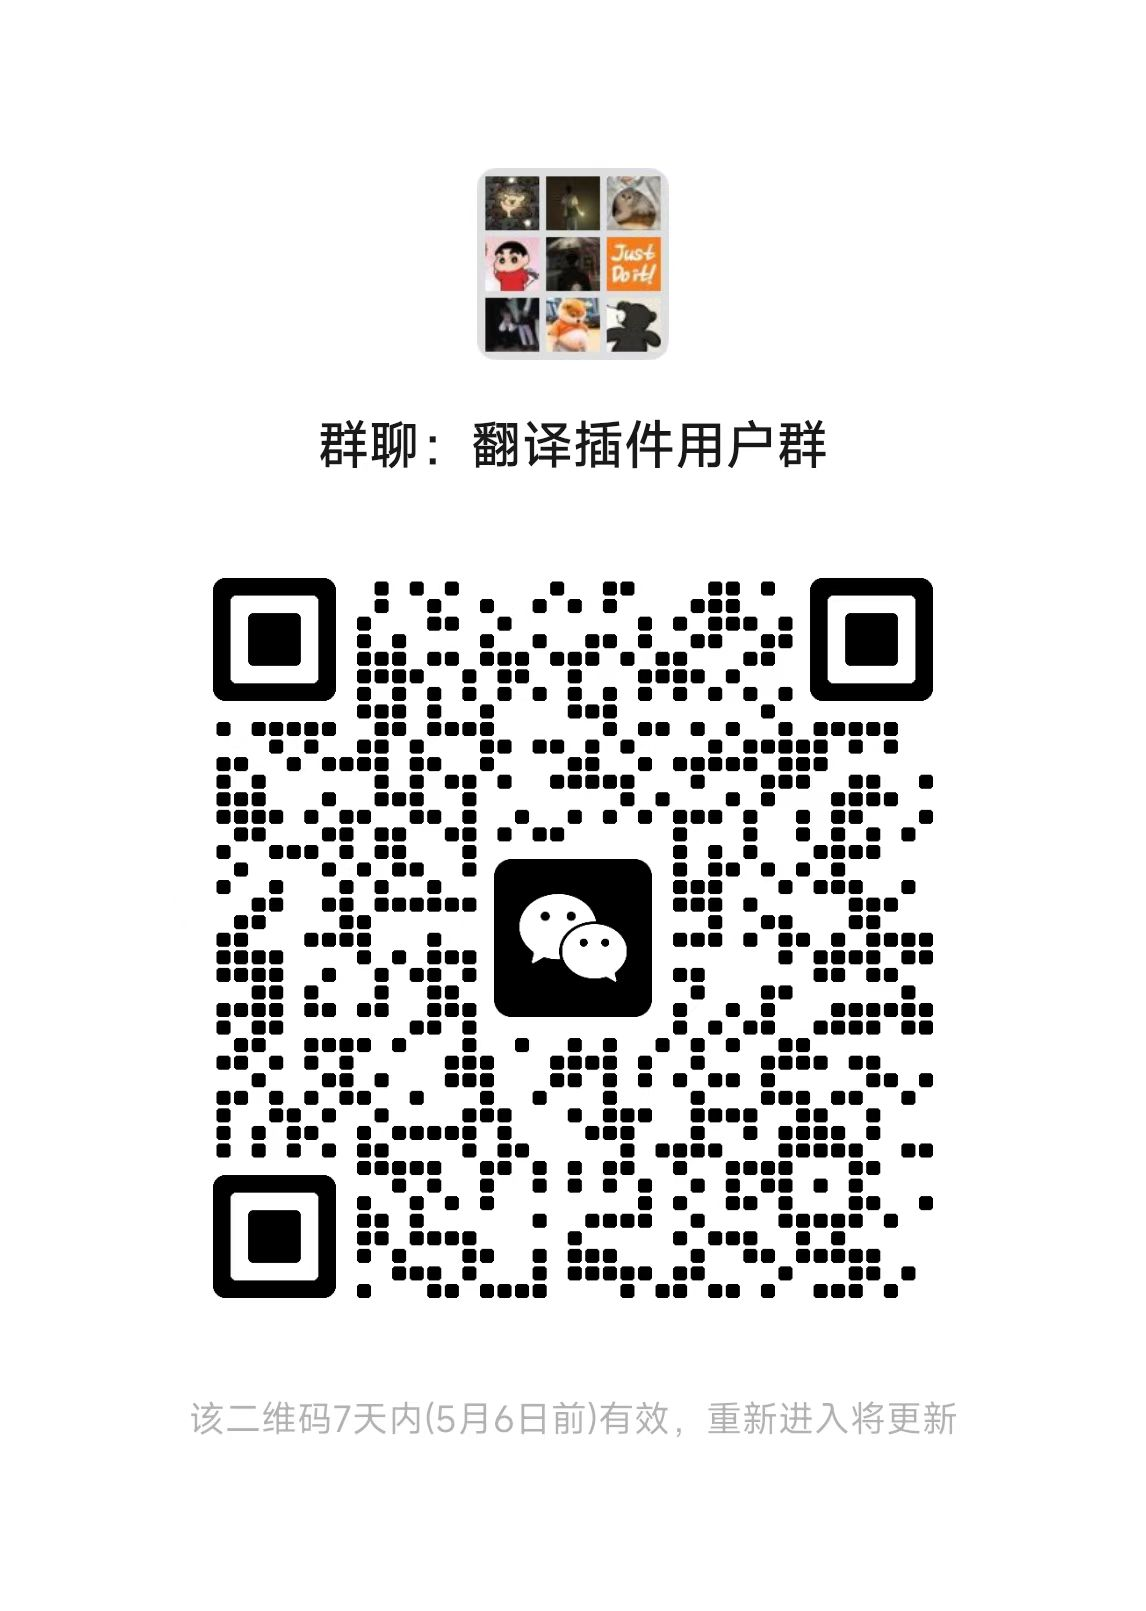
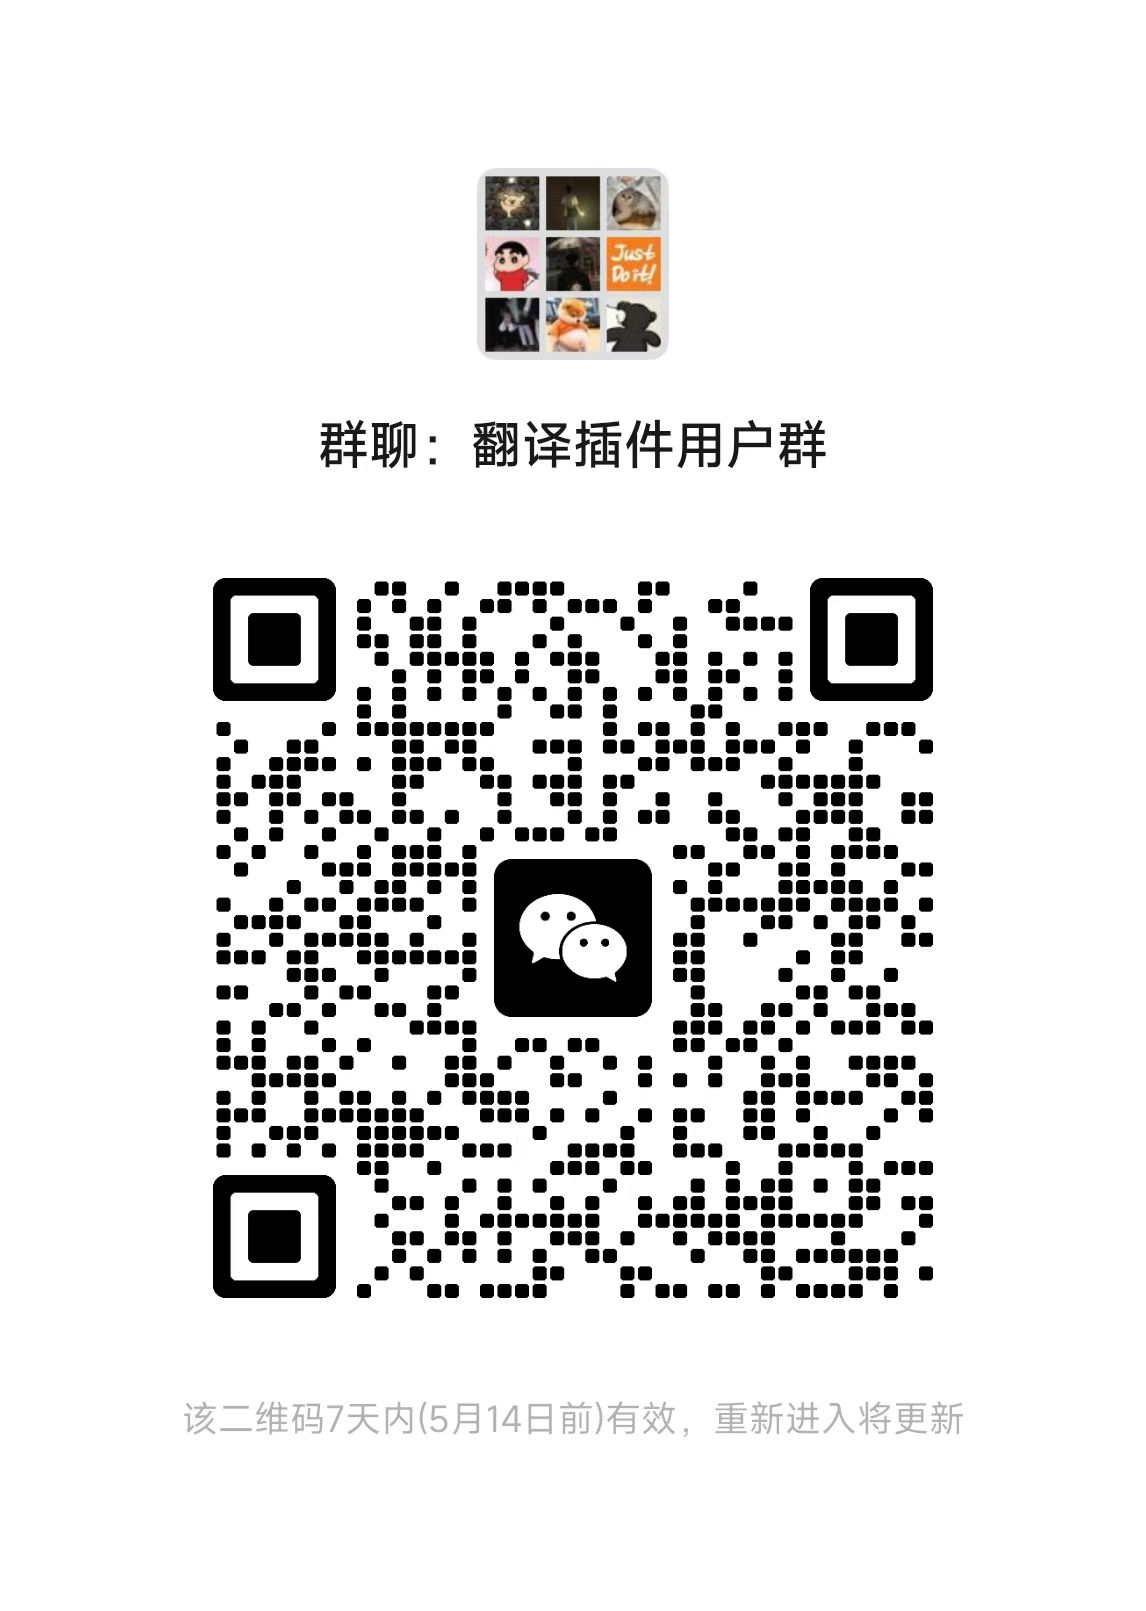
fix: 修复文档远程，更新群组二维码

Changed region(s): [[0.1832, 0.3414, 0.8246, 0.807], [0.1527, 0.869, 0.5803, 0.9001], [0.6108, 0.869, 0.8551, 0.9001]]

diff --git a/readme.md b/readme.md
@@ -94,7 +94,7 @@ export default defineConfig({
                 }
             }
         }),
-        vitePluginAutoI18n({
+        vitePluginsAutoI18n({
             translator: new YoudaoTranslator({
                 appId: '4cdb9baea8066fef',
                 appKey: 'ONI6AerZnGRyDqr3w7UM730mPuF8mB3j'
